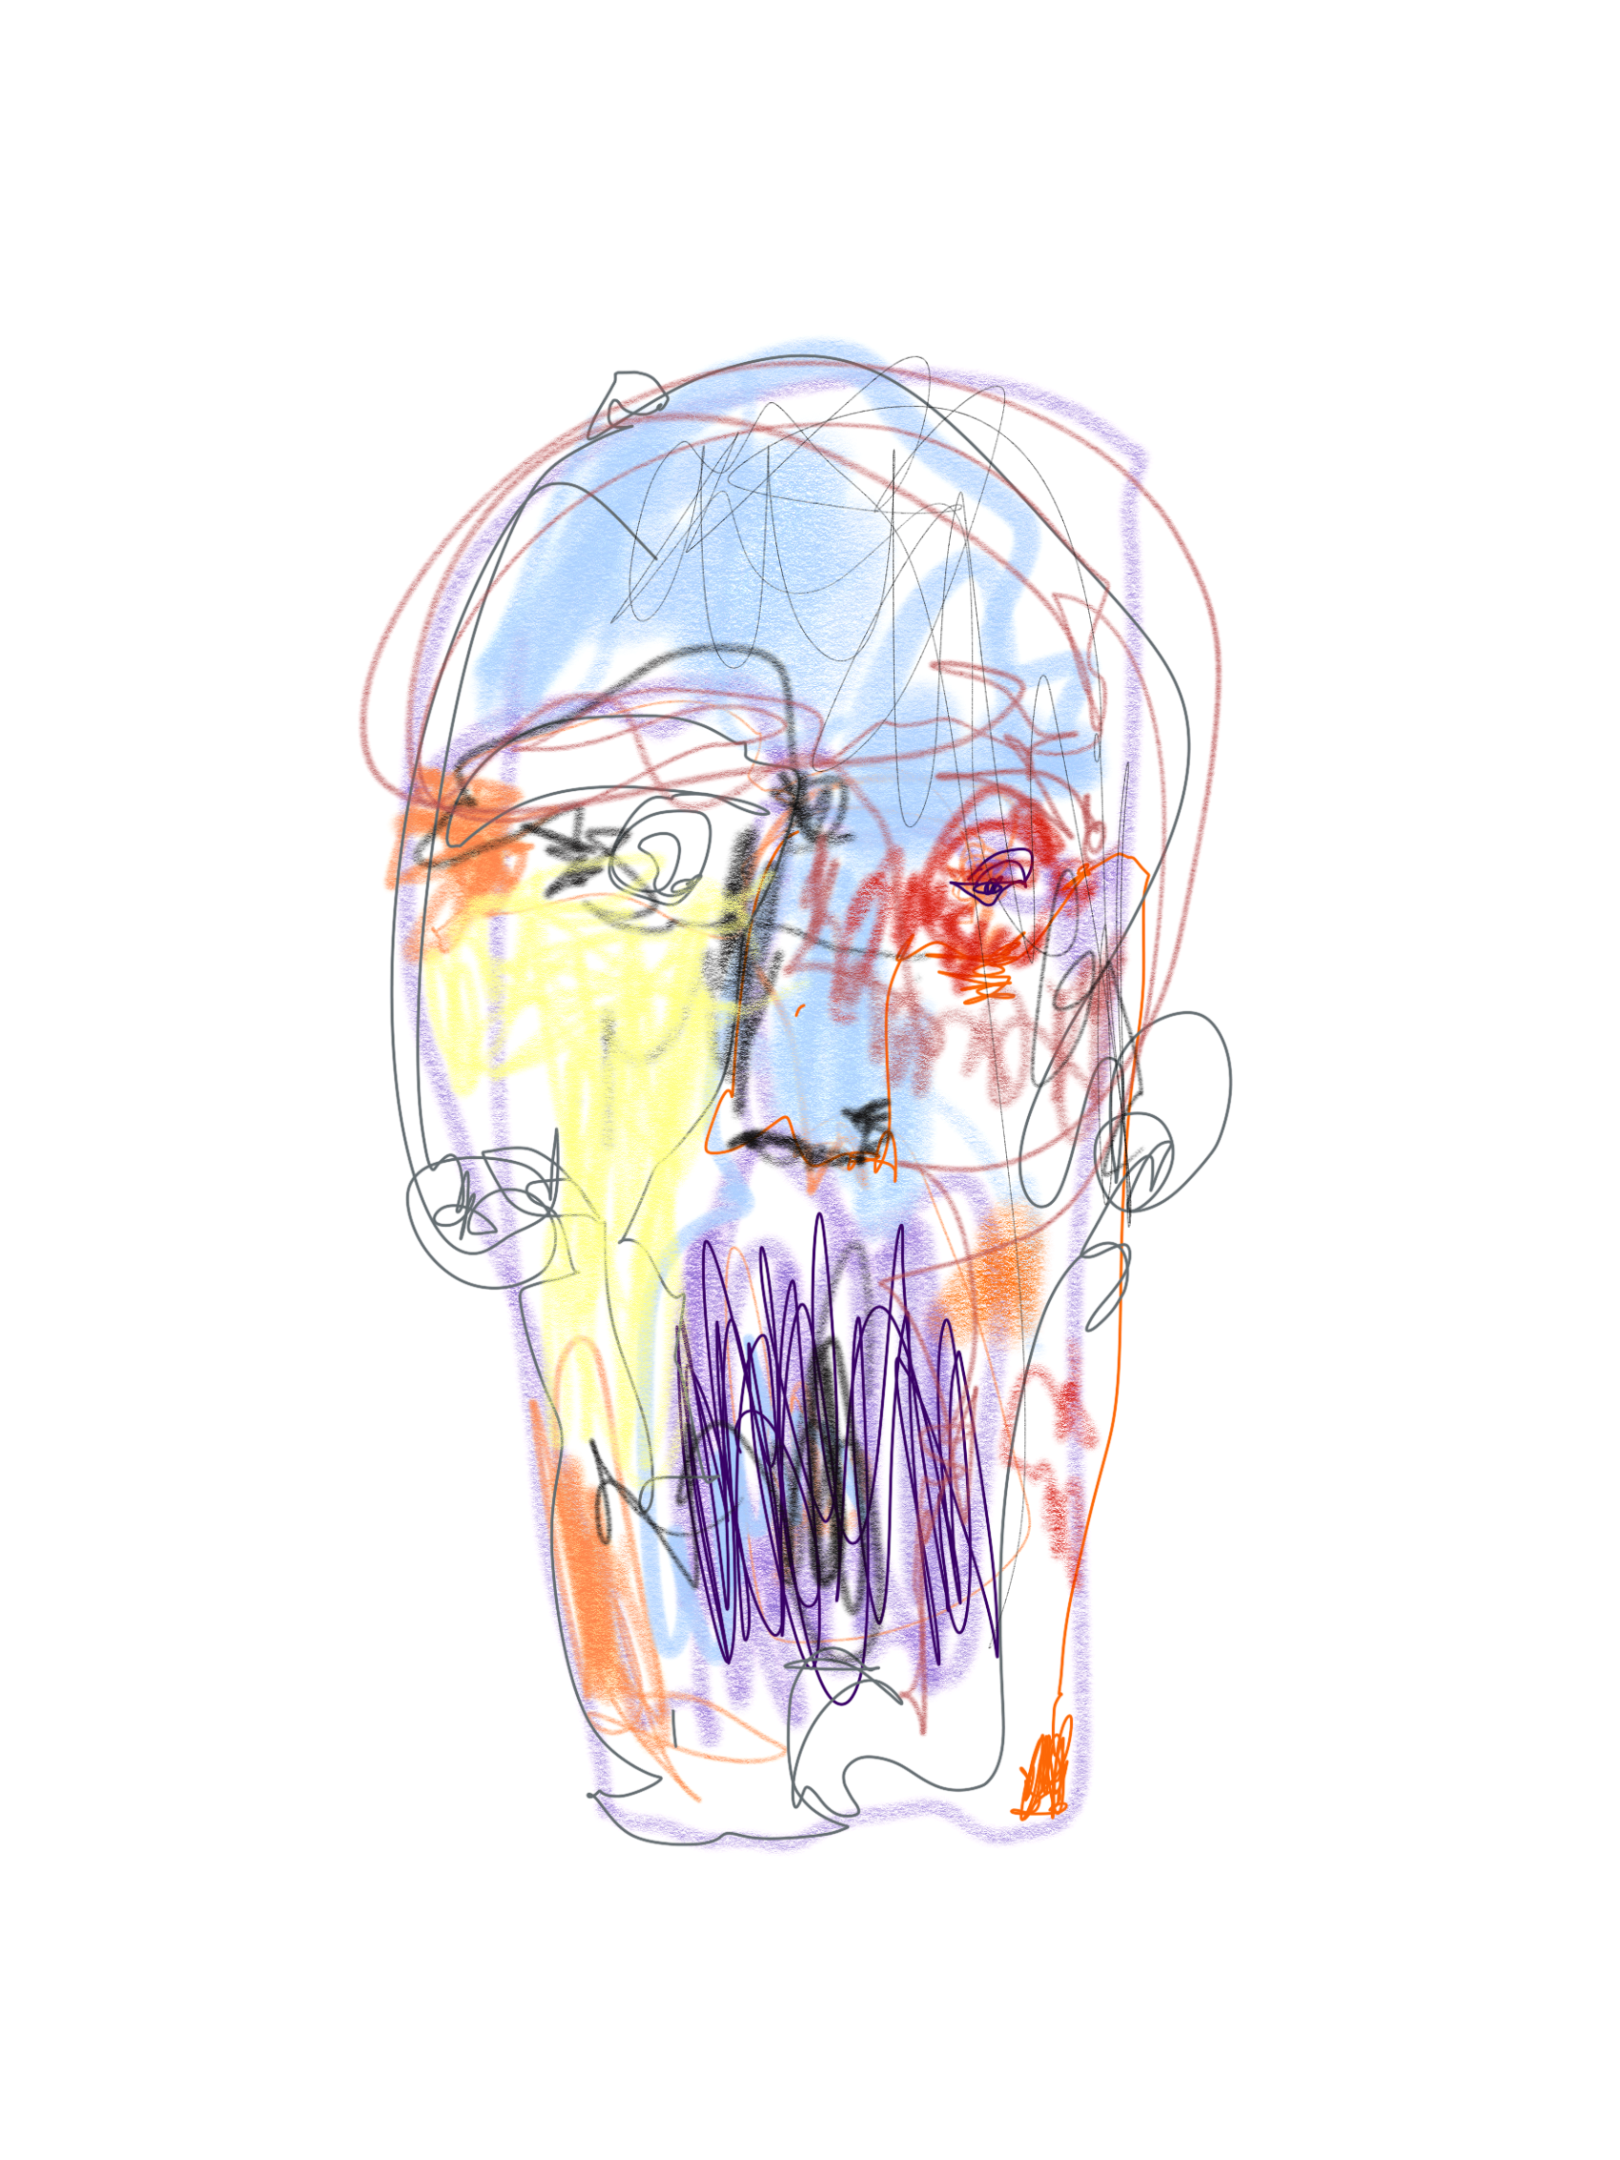
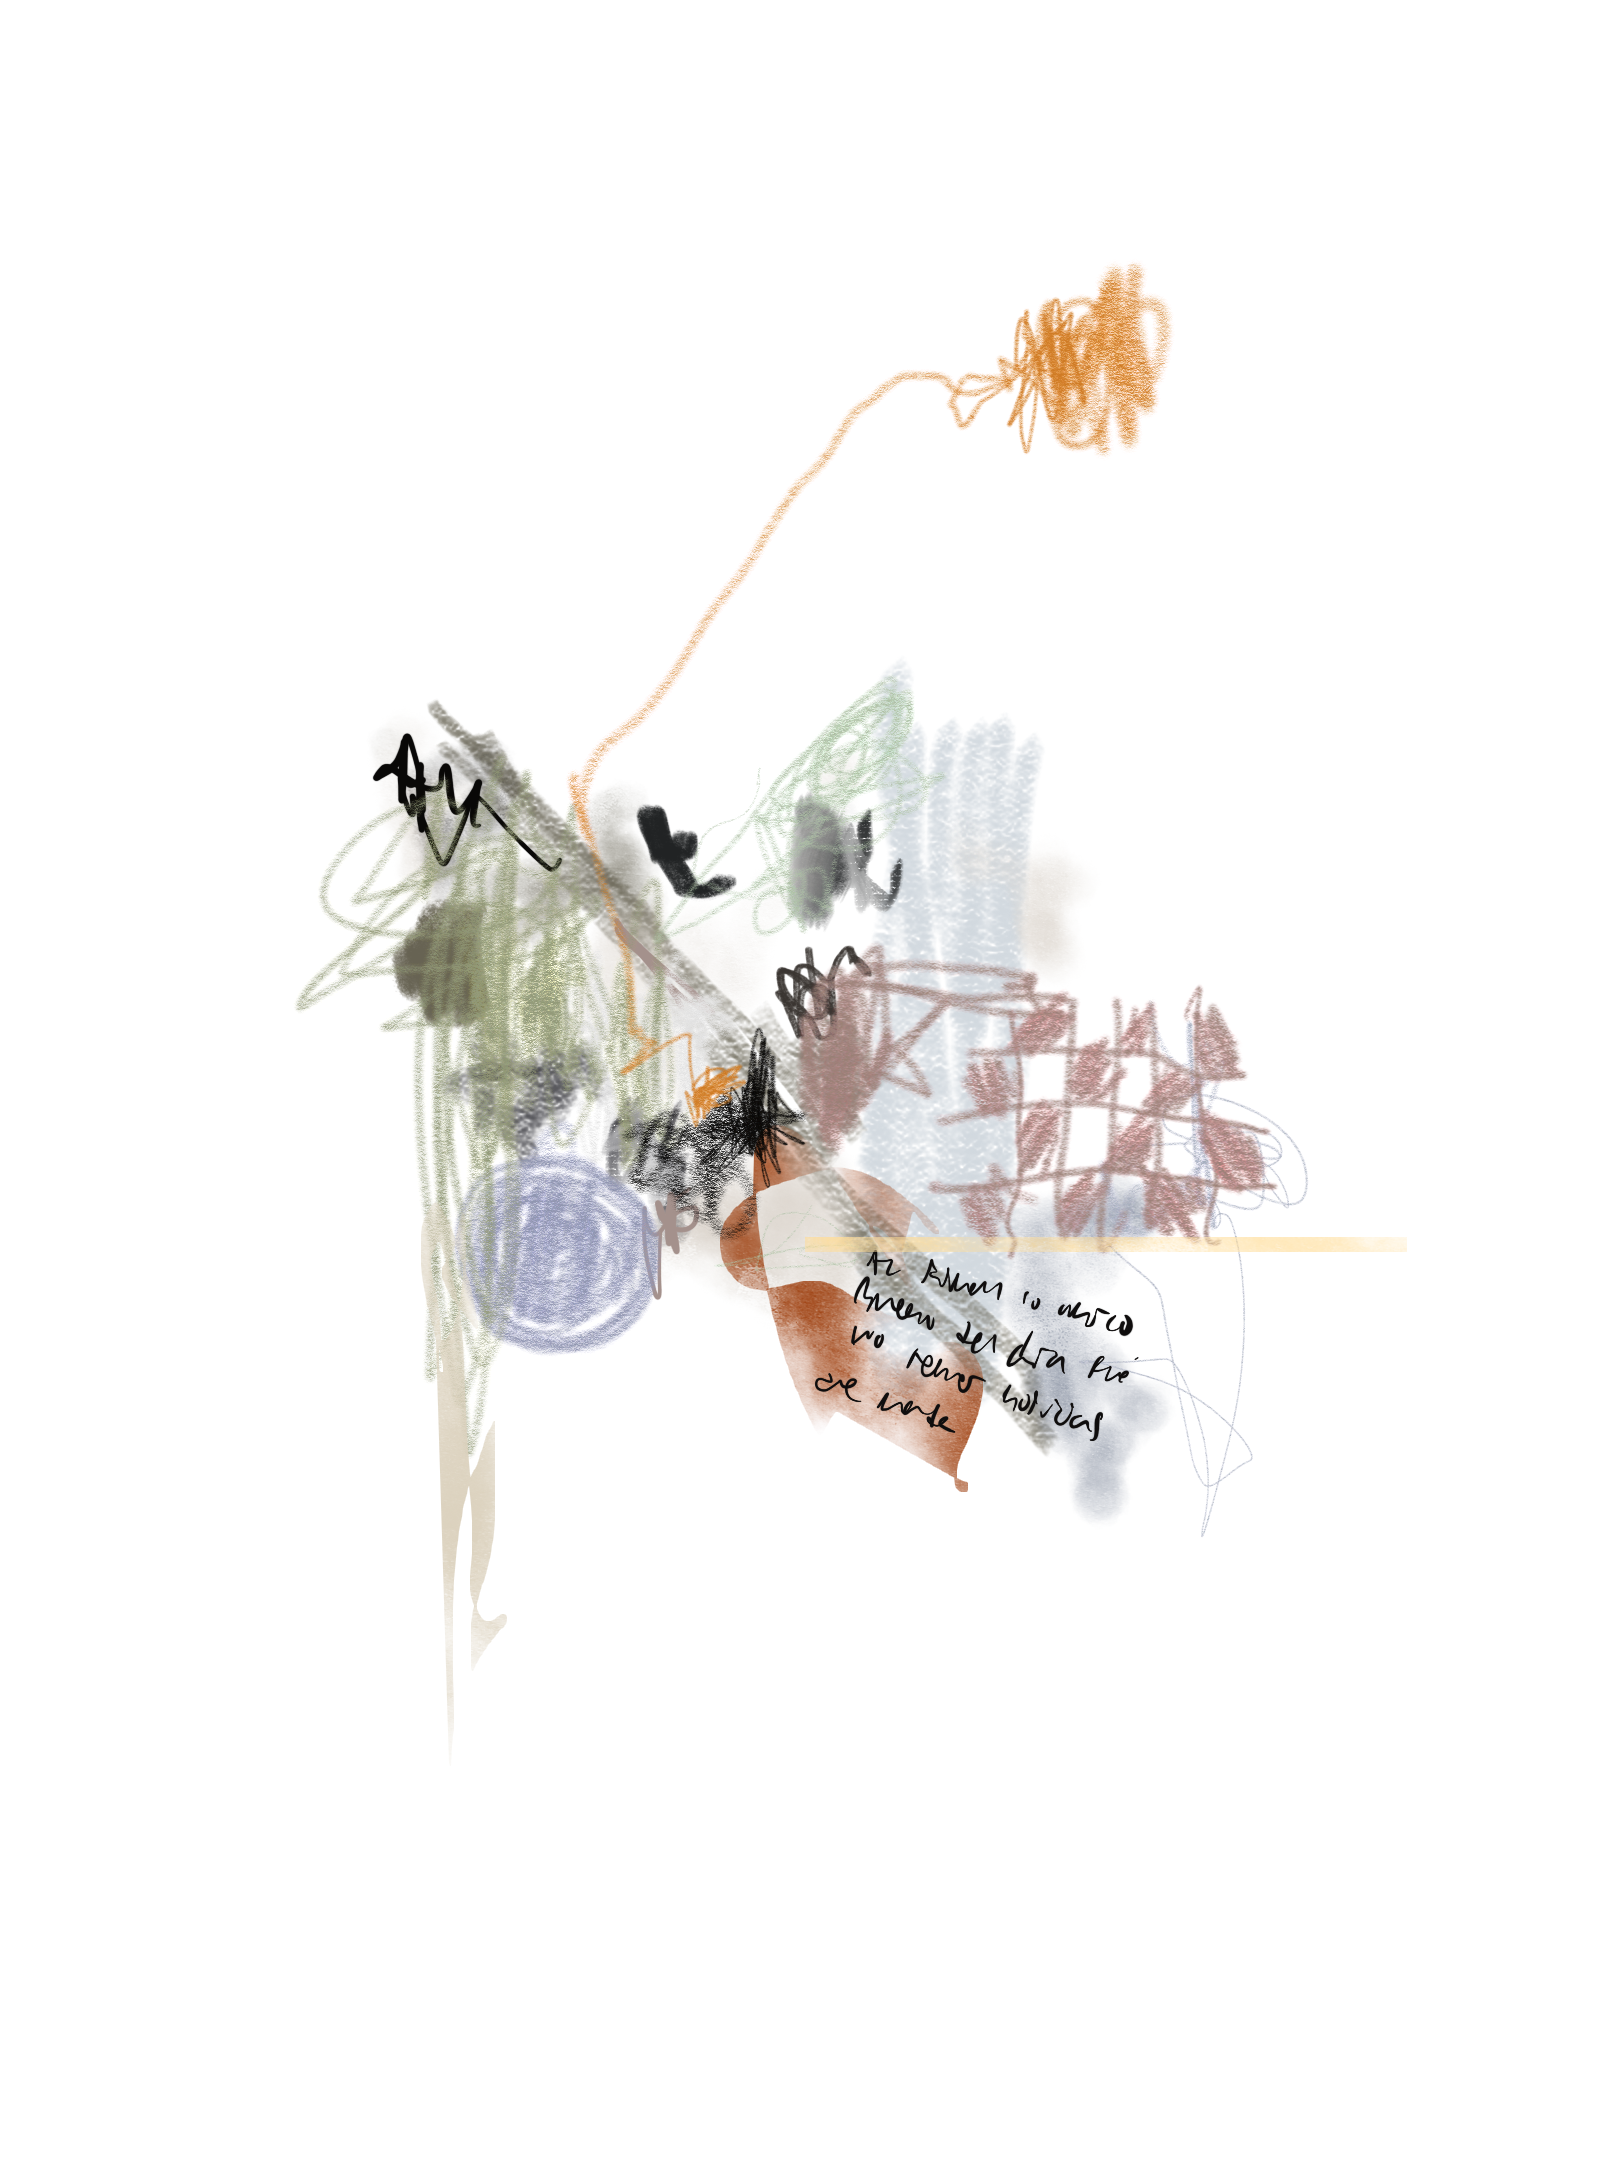
imagenes para contacto updated

Changed region(s): [[0.1852, 0.1241, 0.8642, 0.8685]]

diff --git a/src/components/contact/contact-location-2.tsx b/src/components/contact/contact-location-2.tsx
@@ -2,7 +2,7 @@ import React from "react";
 import Image from "next/image";
 
 // images
-import c_img_1 from "@/assets/img/inner-contact/contact/contact-1.png";
+import c_img_1 from "@/assets/img/inner-contact/contact/contact-1.jpeg";
 import c_img_2 from "@/assets/img/inner-contact/contact/contact-2.png";
 import c_img_3 from "@/assets/img/inner-contact/contact/contact-3.png";
 import c_img_4 from "@/assets/img/inner-contact/contact/contact-4.jpeg";
@@ -12,20 +12,9 @@ import c_img_6 from "@/assets/img/inner-contact/contact/contact-6.png";
 const location_data = [
   {
     id: 1,
-    country: "Oficinas",
-    img_1: c_img_1,
-    img_2: c_img_2,
-    map: "https://www.google.com/maps/@23.822356,90.3671947,15z?entry=ttu",
-    address: "Bv. Las Heras 22, Cba., Argentina.",
-    email: undefined,
-    phone: undefined,
-    note: undefined,
-  },
-  {
-    id: 2,
     country: "Contacto",
     img_1: c_img_3,
-    img_2: c_img_4,
+
     email: "mateo@unamunoarq.com",
     map: undefined,
     address: undefined,
@@ -33,10 +22,21 @@ const location_data = [
     note: undefined,
   },
   {
+    id: 2,
+    country: "Oficinas",
+    img_1: c_img_1,
+
+    map: "https://www.google.com/maps/@23.822356,90.3671947,15z?entry=ttu",
+    address: "Bv. Las Heras 22, Cba., Argentina.",
+    email: undefined,
+    phone: undefined,
+    note: undefined,
+  },
+  {
     id: 3,
     country: "Instagram",
     img_1: c_img_5,
-    img_2: c_img_6,
+
     map: "https://www.instagram.com/unamuno.arq/",
     address: "@unamuno.arq",
     email: undefined,
@@ -61,23 +61,12 @@ const ContactLocationTwo = () => {
                       height: "auto",
                       objectFit: "cover",
                       width: "100%",
-                      maxHeight: "200px",
+                      maxHeight: "175px",
                       aspectRatio: "1/1"
                     }}
                     className="contact-img-mobile"
                   />
-                  <Image
-                    src={item.img_2}
-                    alt="contact-img"
-                    style={{
-                      height: "auto",
-                      objectFit: "cover",
-                      width: "100%",
-                      maxHeight: "200px",
-                      aspectRatio: "1/1"
-                    }}
-                    className="contact-img-mobile"
-                  />
+
                 </div>
                 <div className="cn-contact-2-info-details" >
                   <a className="pb-15" href={item.map} target="_blank">
